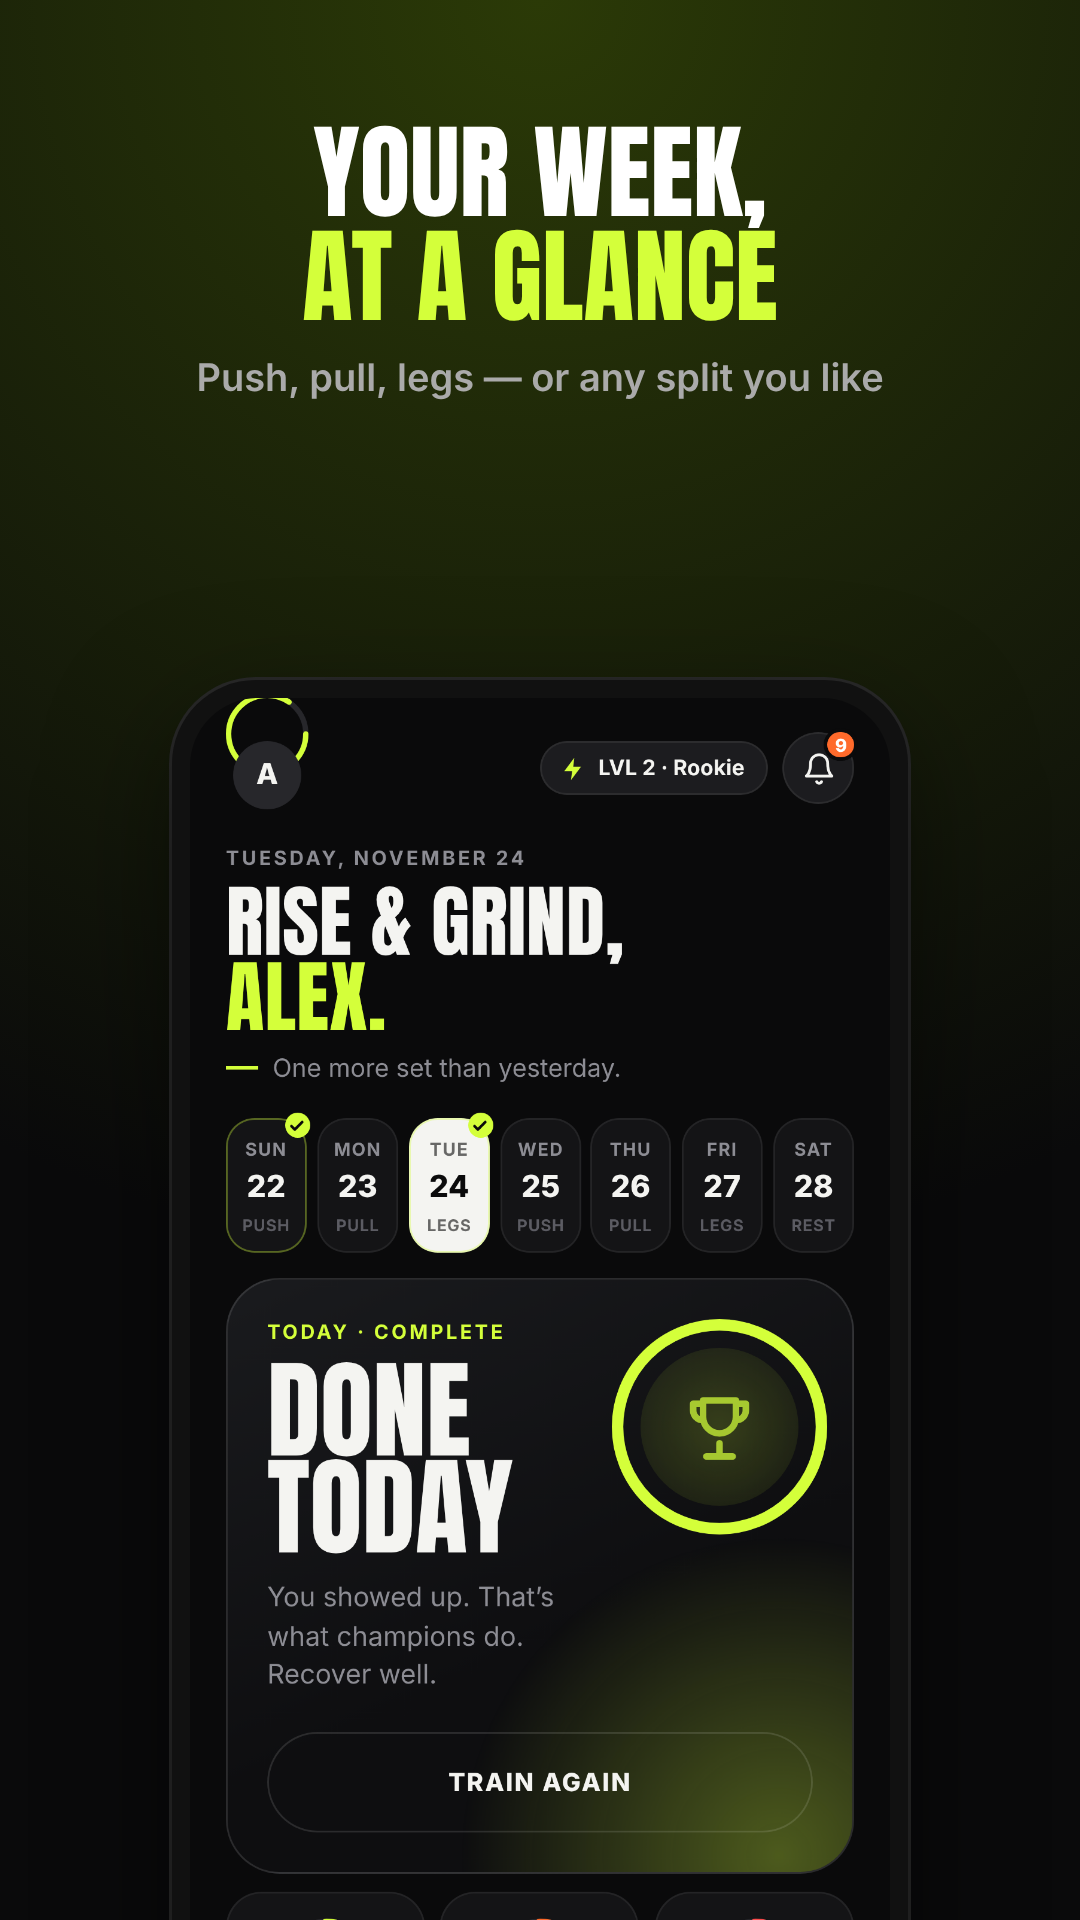
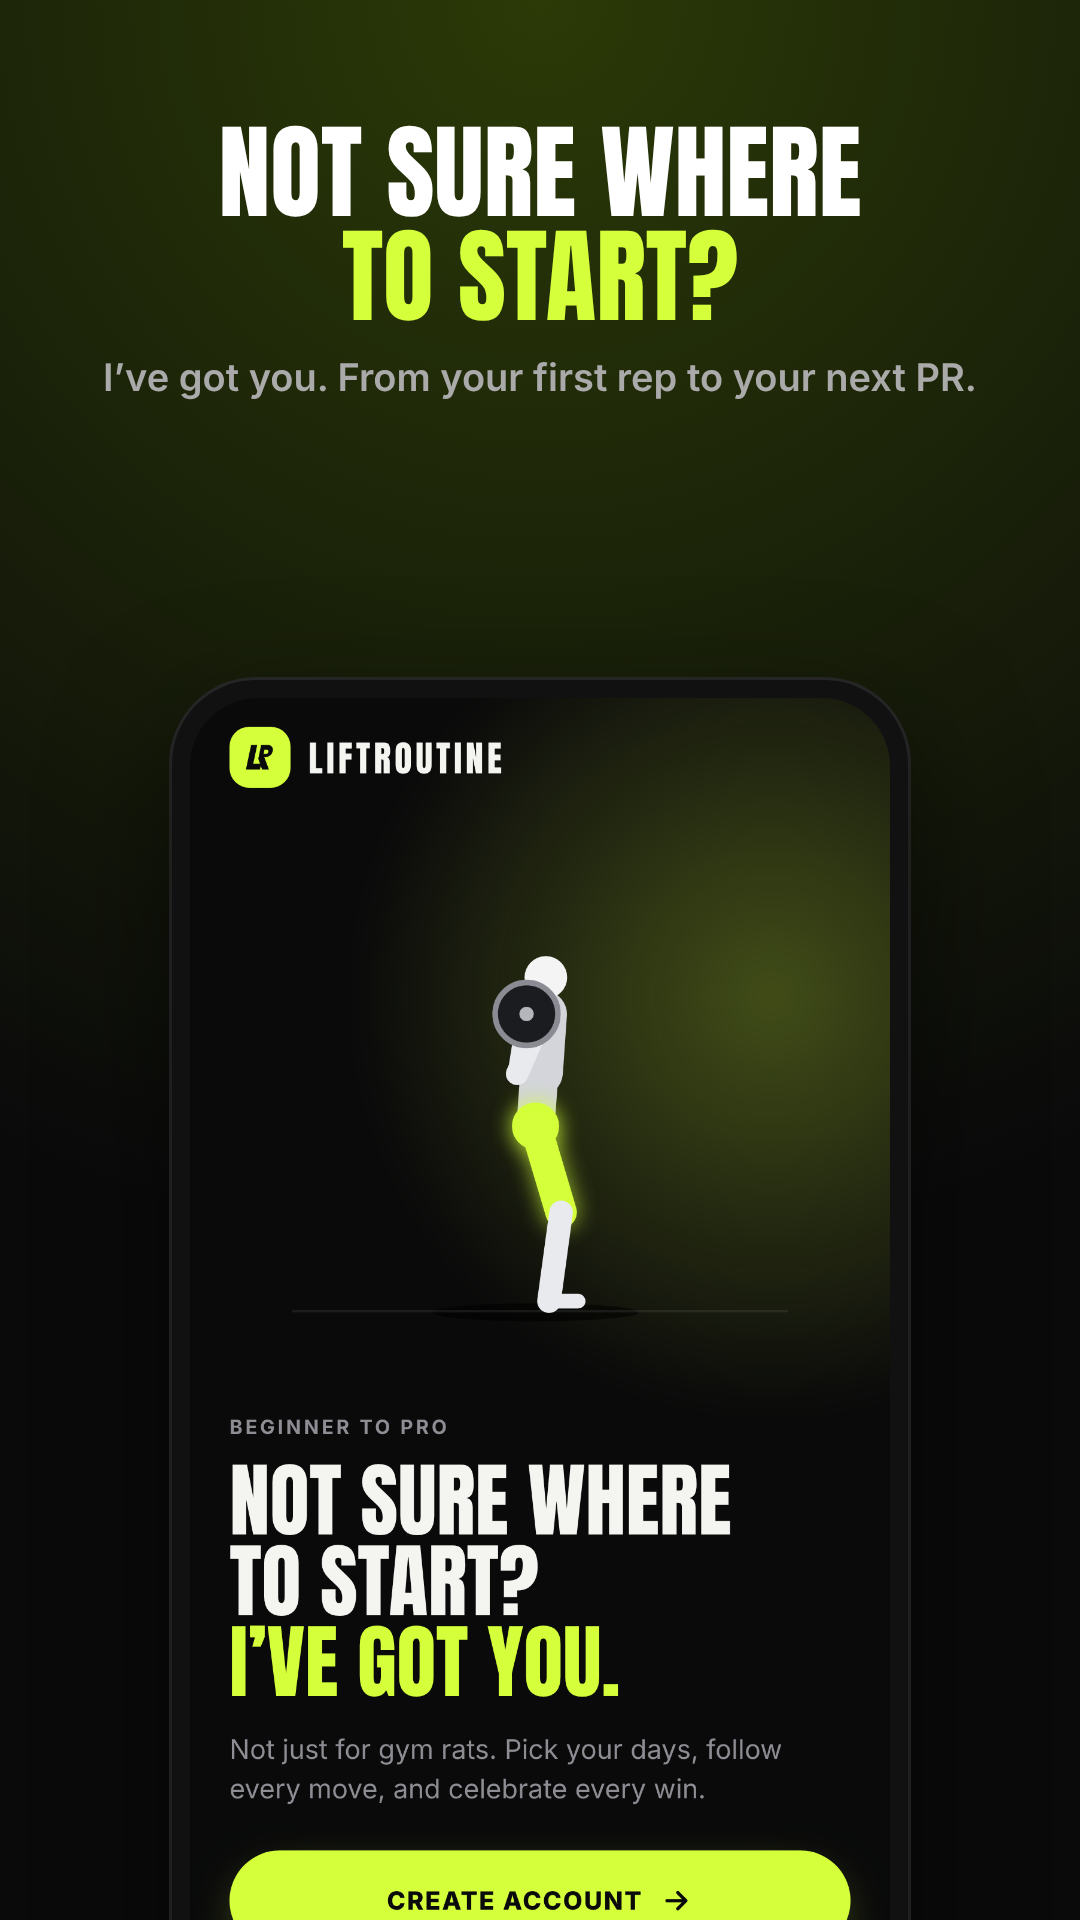
Add files via upload

Changed region(s): [[0.2139, 0.6875, 0.7944, 1.0], [0.2139, 0.375, 0.825, 0.6875], [0.0917, 0.0625, 0.8861, 0.2188]]

diff --git a/index.html b/index.html
@@ -13,8 +13,8 @@ h1 span{color:#D4FF3A}h2{margin-top:36px;color:#fff}.mute{color:#9a9a9a}
 footer{border-top:1px solid #222;margin-top:60px;padding:24px;text-align:center;font-size:13px;color:#777}
 .card{background:#151517;border:1px solid #232326;border-radius:18px;padding:22px;margin:18px 0}</style></head><body>
 <header><div class="logo"><svg viewBox="0 0 100 100" width="26" height="26" fill="#0A0A0B"><g transform="skewX(-12) translate(12.6 0)"><path d="M16 16h17v52h22v16H16z"/><path fill-rule="evenodd" d="M41 16h22a17 17 0 0 1 0 34h-3l20 34H61L44 54v-4h0V16zm15 13v12h6a6 6 0 0 0 0-12z"/></g></svg></div><a class="brand" href="index.html">LIFTROUTINE</a><nav><a href="privacy.html">Privacy</a><a href="terms.html">Terms</a><a href="delete-account.html">Delete account</a></nav></header>
-<main class="wrap"><h1>Build your split.<br>Own your <span>routine.</span></h1>
-<p class="mute" style="font-size:19px;max-width:560px">Plan your training week, follow every rep with animated coaching, and celebrate every win. Free on Android.</p>
+<main class="wrap"><h1>Not sure where<br>to start? <span>I’ve got you.</span></h1>
+<p class="mute" style="font-size:19px;max-width:560px">Not just for gym rats. From your very first workout to your next PR: a plan that fits your level, animated coaching for every move, and a little hype for every win. Free on Android.</p>
 <p><a class="btn" href="https://play.google.com/store/apps/details?id=com.liftroutine.app">Get it on Google Play</a></p>
 <div class="shots"><img src="s1.png" alt="Today screen"><img src="s2.png" alt="Animated exercise"><img src="s3.png" alt="Workout summary"></div>
-<div class="feat"><div><b>Your split, your days</b>Push / Pull / Legs, Upper / Lower, Full Body or one muscle a day.</div><div><b>Animated exercises</b>60+ movements with highlighted muscles and form tips.</div><div><b>Progress that motivates</b>PRs, streaks, awards, calories and body-weight trends.</div><div><b>Private by default</b>Works offline. Your data stays on your phone unless you create an account.</div></div></main><footer>© 2026 LiftRoutine · An independent app, not affiliated with any company or organisation · <a href="mailto:liftroutine.app@gmail.com">liftroutine.app@gmail.com</a></footer></body></html>
+<div class="feat"><div><b>Beginner to pro</b>New? Get a simple plan and a first-workout guide. Experienced? Get volume, overload cues and recovery tips.</div><div><b>Your split, your days</b>Push / Pull / Legs, Upper / Lower, Full Body or one muscle a day.</div><div><b>Animated exercises</b>60+ movements with highlighted muscles and form tips.</div><div><b>Progress that motivates</b>PRs, streaks, awards, calories and body-weight trends.</div><div><b>Private by default</b>Works offline. Your data stays on your phone unless you create an account.</div></div></main><footer>© 2026 LiftRoutine · An independent app, not affiliated with any company or organisation · <a href="mailto:liftroutine.app@gmail.com">liftroutine.app@gmail.com</a></footer></body></html>
